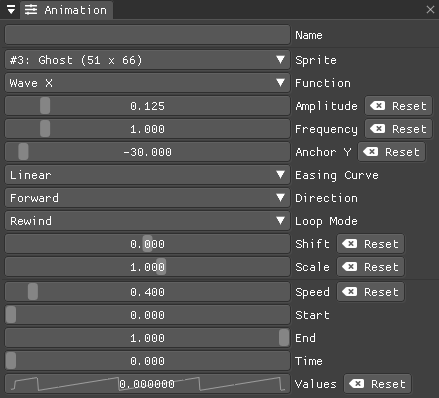
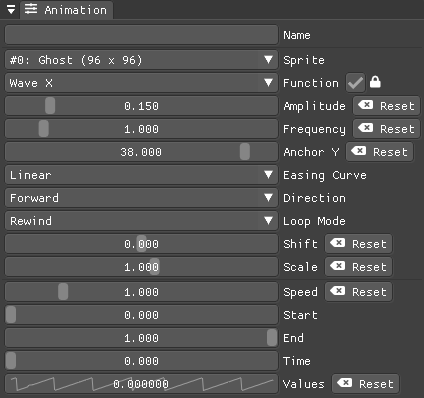
Update the documentation with the new interface
- Add documentation for the sequential animation window and the lock checkboxes
- Add a new cropped screenshot to show the sequential animation window
- Add a changelog section to the documentation
- Update the property and grid animation cropped screenshots to show the lock checkboxes
- Remove the root parallel animation group from project files
- Remove the grid anchor points of sprites from project files

diff --git a/docs/documentation.html b/docs/documentation.html
@@ -469,6 +469,14 @@ body.book #toc,body.book #preamble,body.book h1.sect0,body.book .sect1>h2{page-b
 <li><a href="#_canvas_window">Canvas window</a></li>
 <li><a href="#_texrect_window">TexRect window</a></li>
 <li><a href="#_status_bar">Status bar</a></li>
+<li><a href="#_changelog">Changelog</a>
+<ul class="sectlevel2">
+<li><a href="#_01_april_2021">01 April 2021</a></li>
+<li><a href="#_30_march_2021">30 March 2021</a></li>
+<li><a href="#_28_february_2021">28 February 2021</a></li>
+<li><a href="#_24_may_2020">24 May 2020</a></li>
+</ul>
+</li>
 </ul>
 </div>
 </div>
@@ -746,6 +754,14 @@ Pressing <kbd>Space</kbd> will toggle the animation state between playing and pa
 <div class="paragraph">
 <p>The <code>Parallel Group</code> and <code>Sequential Group</code> help to organize together multiple animations. They will be played together or one after another depending on the group type. An animation group can also be composed of sub-groups.</p>
 </div>
+<div class="imageblock">
+<div class="content">
+<img src="sequential_animation_window.png" alt="Sequential animation window">
+</div>
+</div>
+<div class="paragraph">
+<p>The <code>Sequential Group</code> animation window has the same <code>Direction</code> and <code>Loop Mode</code> options as the non-group animation types.</p>
+</div>
 <div class="admonitionblock tip">
 <table>
 <tr>
@@ -773,18 +789,6 @@ Pressing <kbd>Space</kbd> will toggle the animation state between playing and pa
 </td>
 <td class="content">
 The sprite icon at the end of an entry indicates that the animation is assigned to the currently selected sprite. When you select a different animation its assigned sprite will be automatically selected.
-</td>
-</tr>
-</table>
-</div>
-<div class="admonitionblock note">
-<table>
-<tr>
-<td class="icon">
-<i class="fa icon-note" title="Note"></i>
-</td>
-<td class="content">
-The <code>Sequential Group</code> type is currently disabled until some related bugs are fixed.
 </td>
 </tr>
 </table>
@@ -871,6 +875,9 @@ You can use the <a href="#_texrect_window">TexRect window</a> to help you set up
 <p>Color channels</p>
 </li>
 </ul>
+</div>
+<div class="paragraph">
+<p>Next to the property name there is a checkbox with a lock icon. When it is enabled the curve value is applied to the property even if the animation is currently stopped or paused. This option is useful to show a preview of the sprite affected by the property animation.</p>
 </div>
 <div class="paragraph">
 <p>You can change the easing curve of the time parameter between a list of curves like:</p>
@@ -963,6 +970,9 @@ The function will take the time parameter, a number between 0 and 1, and return 
 <p>Zoom</p>
 </li>
 </ul>
+</div>
+<div class="paragraph">
+<p>Next to the grid function name there is a checkbox with a lock icon. When it is enabled the curve value is applied to the function even if the animation is currently stopped or paused. This option is useful to show a preview of the sprite affected by the grid animation.</p>
 </div>
 <div class="admonitionblock tip">
 <table>
@@ -1111,6 +1121,80 @@ It shows you which part of the texture will be used by the sprite for rendering.
 </div>
 <div class="paragraph">
 <p>At the bottom of the interface, you will find the status bar. It will show error and information messages as well as the mouse coordinates during some operations.</p>
+</div>
+</div>
+</div>
+<div class="sect1">
+<h2 id="_changelog">Changelog</h2>
+<div class="sectionbody">
+<div class="sect2">
+<h3 id="_01_april_2021">01 April 2021</h3>
+<div class="ulist">
+<ul>
+<li>
+<p><strong>[NEW]</strong> Reactivate sequential animation groups</p>
+</li>
+<li>
+<p><strong>[NEW]</strong> Add direction and loop mode to sequential groups</p>
+</li>
+<li>
+<p><strong>[NEW]</strong> Add an option to lock or unlock the value of non-playing curve animations</p>
+</li>
+<li>
+<p><strong>[FIX]</strong> Fix animations order when deserializing animation groups</p>
+</li>
+<li>
+<p><strong>[FIX]</strong> Set the grid function when deserializing a grid animation</p>
+</li>
+<li>
+<p><strong>[FIX]</strong> Hide the grid function interface if there are no sprites to animate</p>
+</li>
+</ul>
+</div>
+</div>
+<div class="sect2">
+<h3 id="_30_march_2021">30 March 2021</h3>
+<div class="ulist">
+<ul>
+<li>
+<p><strong>[NEW]</strong> Add support for drag and drop in the animations window</p>
+</li>
+<li>
+<p><strong>[NEW]</strong> Show the animation manager root group in the animations window</p>
+</li>
+<li>
+<p><strong>[FIX]</strong> Assign the selected sprite to newly created property and grid animations</p>
+</li>
+</ul>
+</div>
+</div>
+<div class="sect2">
+<h3 id="_28_february_2021">28 February 2021</h3>
+<div class="ulist">
+<ul>
+<li>
+<p><strong>[NEW]</strong> Add support for drag and drop in the sprites window</p>
+</li>
+<li>
+<p><strong>[FIX]</strong> Put the move up and down sprite buttons on the same line as the add and remove ones</p>
+</li>
+<li>
+<p><strong>[FIX]</strong> Add support for the new fault-tolerant texture loader class of the nCine</p>
+</li>
+<li>
+<p><strong>[FIX]</strong> Avoid displaying the remove button if there are no textures or sprites</p>
+</li>
+<li>
+<p><strong>[FIX]</strong> Fix a crash when recursively removing an animation and its children</p>
+</li>
+</ul>
+</div>
+</div>
+<div class="sect2">
+<h3 id="_24_may_2020">24 May 2020</h3>
+<div class="paragraph">
+<p>Last paid version on Itch.io</p>
+</div>
 </div>
 </div>
 </div>
